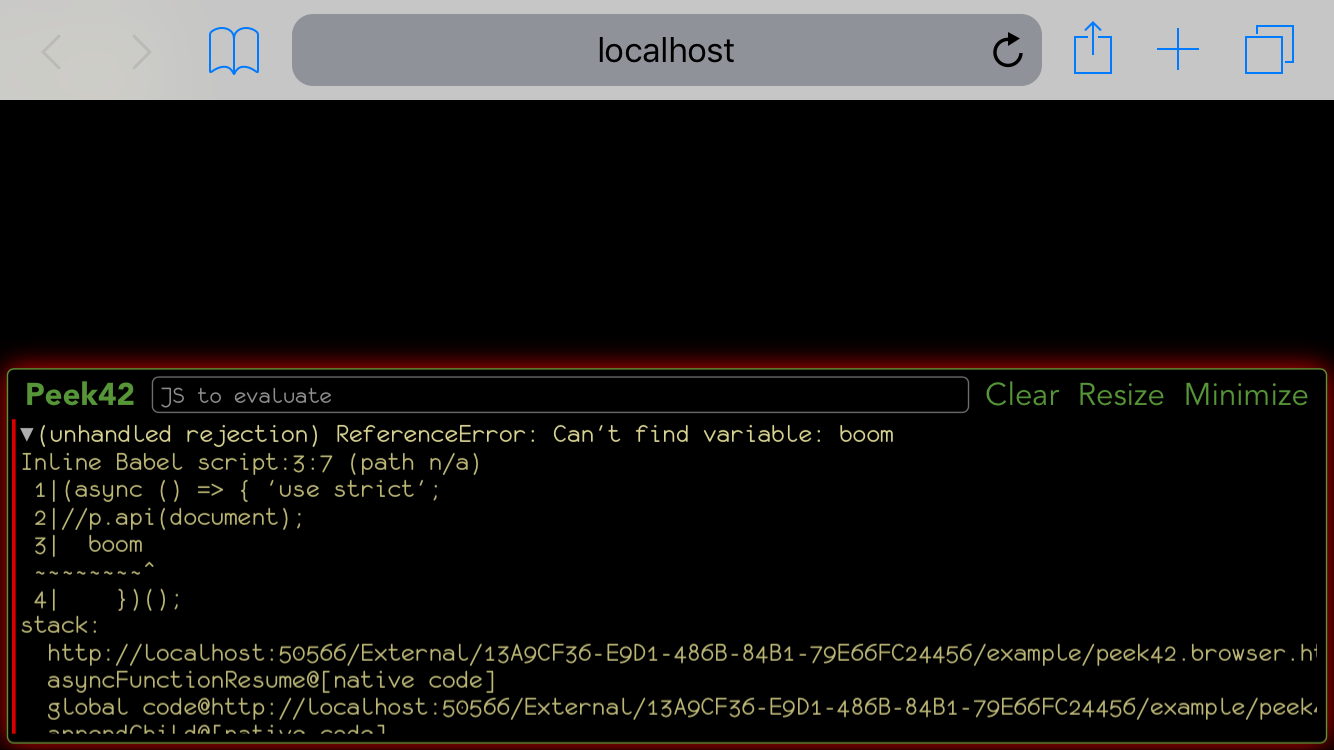
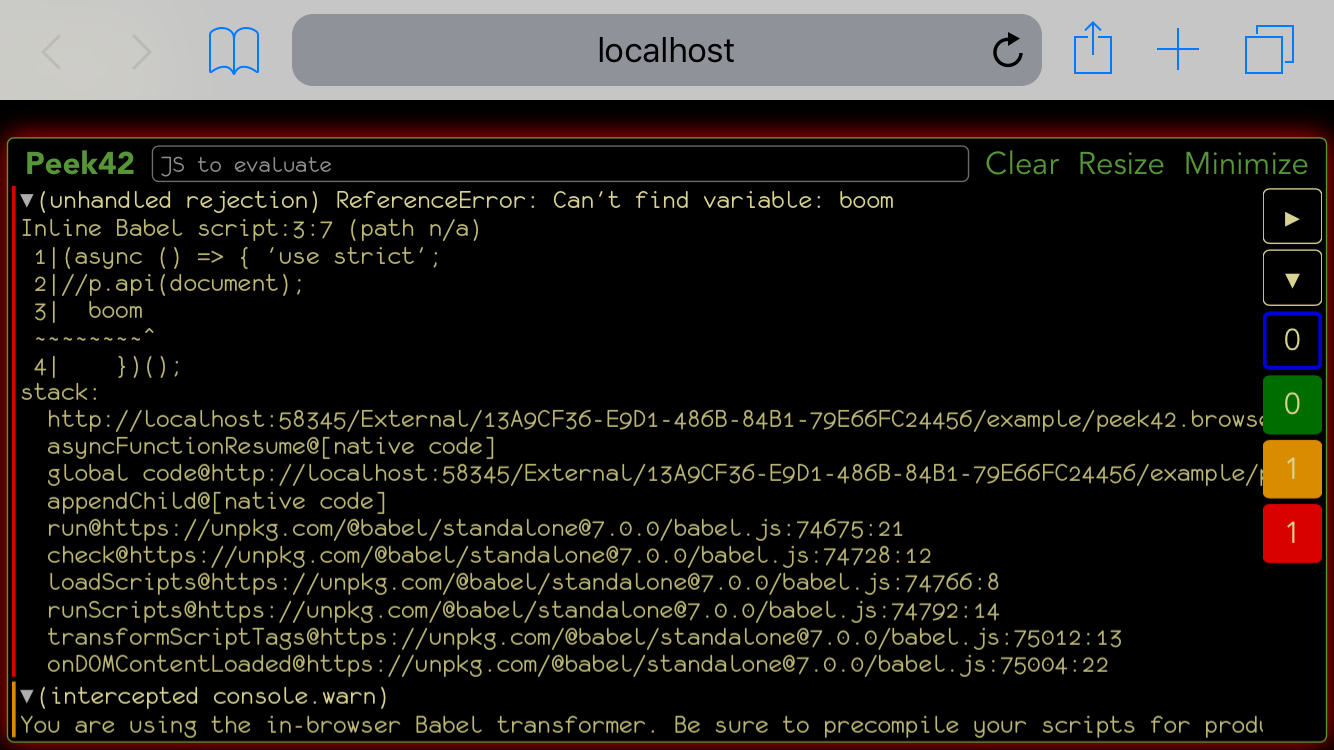
v5.4.0

Changed region(s): [[0.0, 0.1533, 1.0, 1.0]]

diff --git a/README.md b/README.md
@@ -140,7 +140,7 @@ The following properties/functions are available through the **peek42** namespac
 
 ## UI
 
-If no log function has been called, **peek42** is shown minimized. Tap **Show** to show it. By default, whenever a log function is called, **peek42** is shown and the log is scrolled to the top (entries are logged from oldest at the bottom to newest at the top), so that the latest entry is visible. Tap **Minimize** to minimize it. This can be changed by turning on the **Quiet** checkbox (visible only when **peek42** is minimized). In this mode, **peek42** flashes on log write, but stays minimized. Tapping the title alternates the log position between start/end. Use **Resize** to resize **peek42** (**peek42** limits its dimensions and the border briefly flashes upon reaching the limits) and **Clear** to clear the log contents
+If no log function has been called, **peek42** is shown minimized. Tap **Show** to show it. By default, whenever a log function is called, **peek42** is shown and the log is scrolled to the top (entries are logged from oldest at the bottom to newest at the top), so that the latest entry is visible. Tap **Minimize** to minimize it. This can be changed by turning on the **Quiet** checkbox (visible only when **peek42** is minimized). In this mode, **peek42** flashes on log write, but stays minimized. Tapping the title alternates the log position between start/end. Use **Resize** to resize **peek42** (**peek42** limits its dimensions and the border briefly flashes upon reaching the limits) and **Clear** to clear the log contents. The buttons on the right can be used to collapse/expand all entries and to filter them by log level (info, log, warn, error). They work like a set of checkboxes (each controls the visibility of the particular level) and show the number of corresponding entries. If **peek42** is in quiet mode, log write with filtered out level doesn't show it (the entry is written and **peek** flashes)
 
 Use the text box **JS to evaluate** to eval JavaScript code (write in the box and simply hit enter). Print functions can be specified by prefixing the expression with one of `v(alue)` (the default), `p(retty)`, `t(ype)`, `d(esc)` (requires two arguments separated by a comma), `m(embers)`, `c(hain)`, `a(pi)`. Only `v(alue)` and `p(retty)` are supported out of the box, the others require [ApiVis](https://github.com/rpeev/apivis)
 

diff --git a/RELNOTES.md b/RELNOTES.md
@@ -1,5 +1,11 @@
 # Release Notes
 
+## 5.4.0
+
+- Add right side toolbar
+- Add the ability to collapse/expand all log entries (&#x25b8; and &#x25be; toolbar buttons)
+- Add the ability to filter log entries by level (colorful toolbar buttons with numbers). They work like a set of checkboxes (each controls the visibility of the particular log entries level) and show the corresponding log entries count
+
 ## 5.3.0
 
 - Add color strip to indicate the log level of each entry
